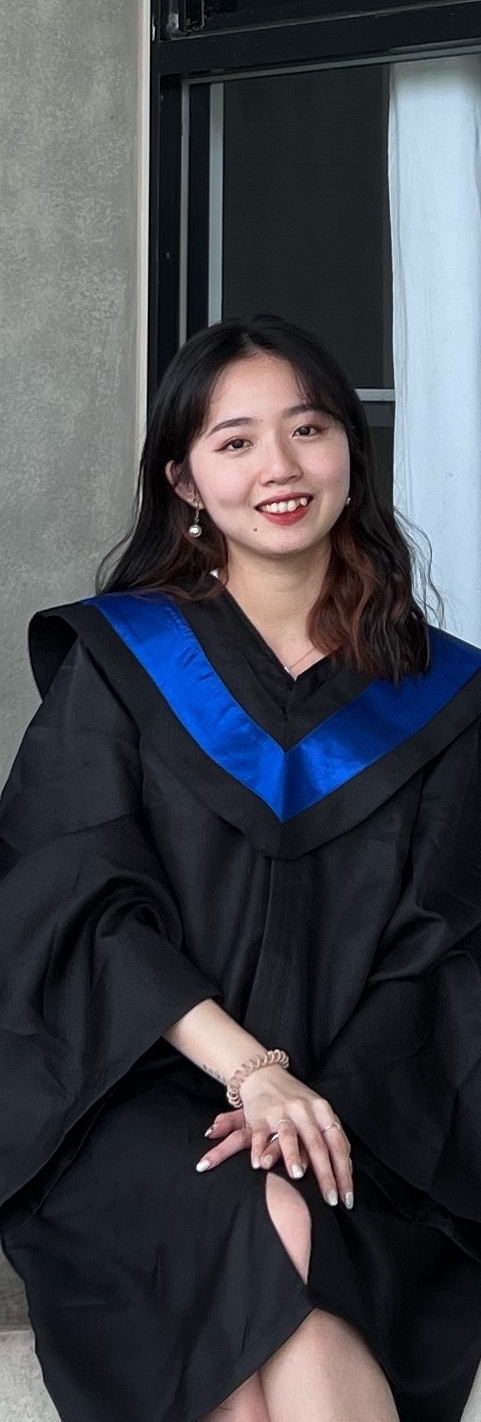
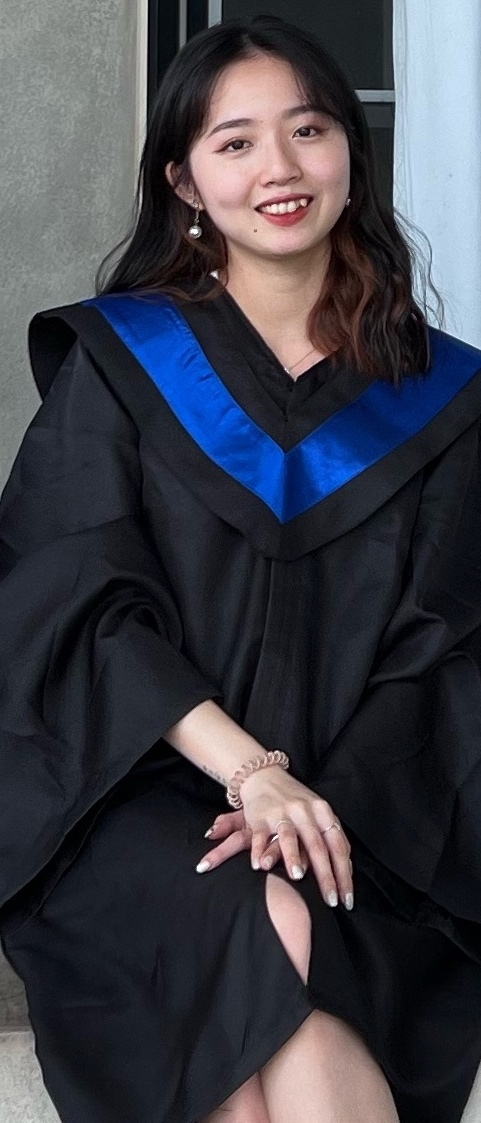
fit: adjust mobile image

diff --git a/src/components/Header/Header.module.sass b/src/components/Header/Header.module.sass
@@ -2,7 +2,7 @@
   min-height: 90vh
   background-image: url("../../../public/image/user-image-mobile.jpg")
   background-size: cover
-  background-position: 60% 40% //FIXME:
+  background-position: 60% 0% //FIXME:
   background-attachment: fixed
   display: flex
   align-items: center
